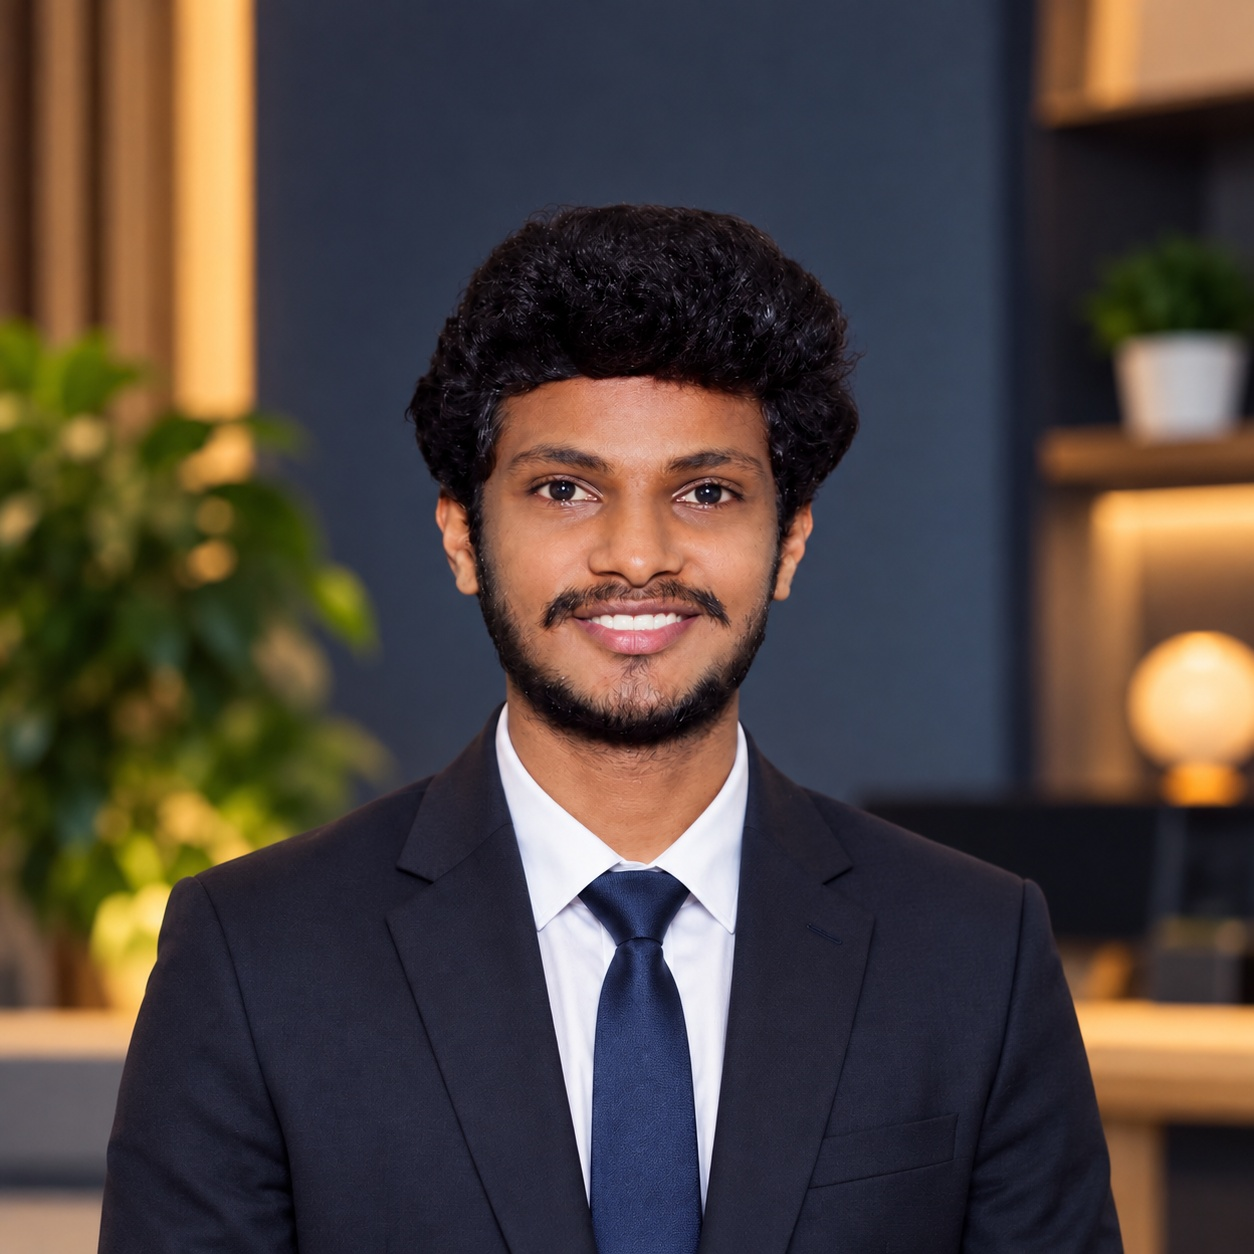
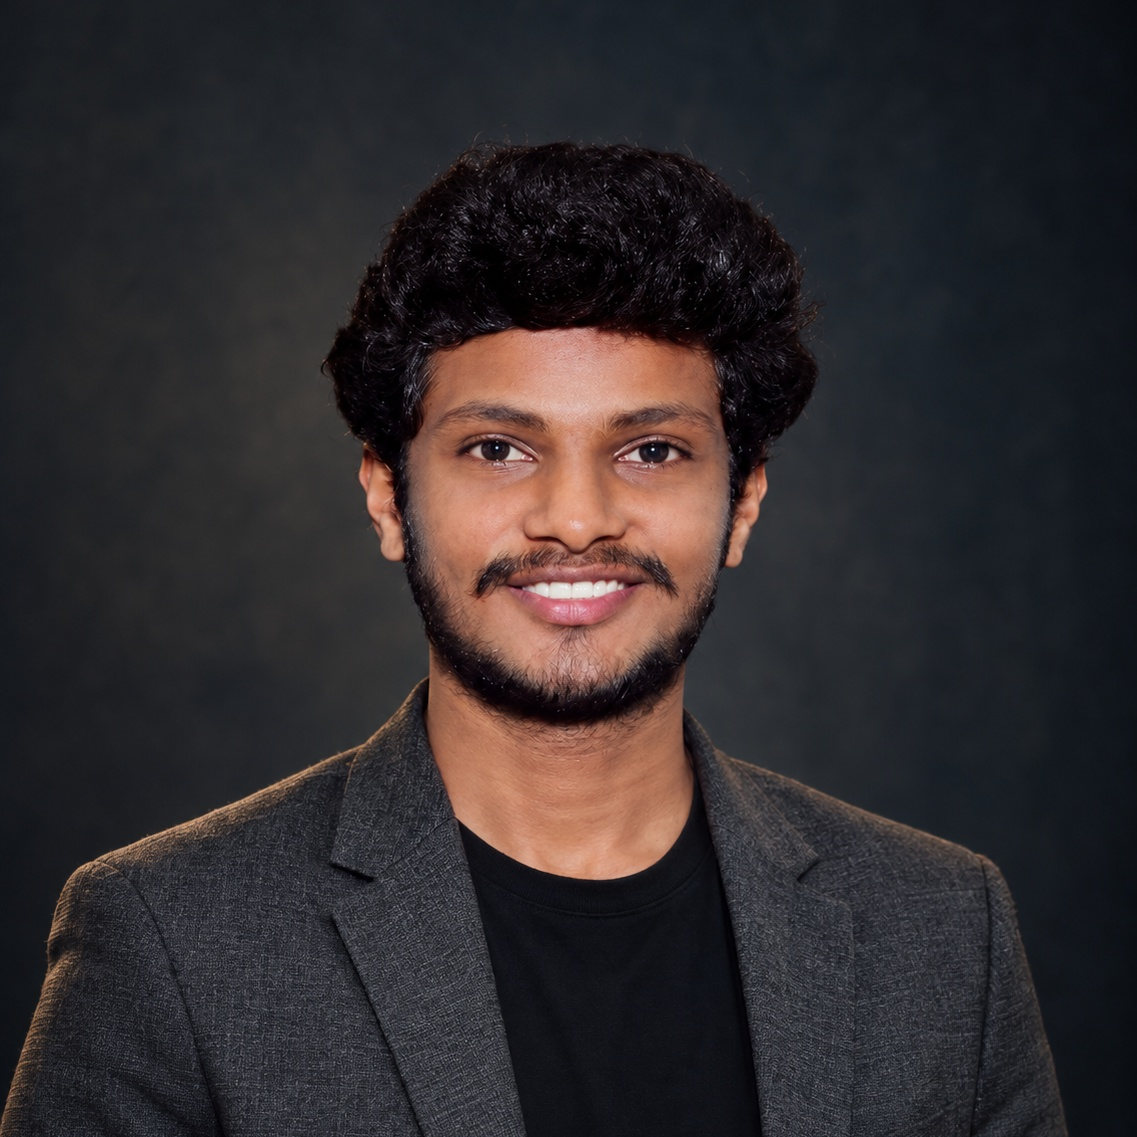
Update Dharaneeswar photo and adjust founder box width

diff --git a/frontend/src/pages/About.jsx b/frontend/src/pages/About.jsx
@@ -138,13 +138,13 @@ const About = () => {
           </div>
         </ScrollReveal>
 
-        <div className="max-w-5xl mx-auto grid grid-cols-1 md:grid-cols-3 gap-6 sm:gap-8 items-stretch">
+        <div className="max-w-[1055px] mx-auto grid grid-cols-1 md:grid-cols-3 gap-6 sm:gap-8 items-stretch">
           {founders.map((founder, idx) => {
             const founderImages = [founder1Img, founder2Img, founder3Img];
             const portrait = founderImages[idx];
             return (
               <ScrollReveal key={founder.id} delay={idx * 0.12} className="h-full">
-                <div className="charcoal-card rounded-2xl p-6 sm:p-7 flex flex-col items-center text-center justify-between h-full border-2 border-[#47484c]/70 hover:border-[#d4af37] shadow-[0_16px_36px_rgba(0,0,0,0.45)] hover:shadow-[0_20px_45px_rgba(212,175,55,0.18)] transition-all duration-300 group relative overflow-hidden">
+                <div className="charcoal-card rounded-2xl py-6 px-7 sm:px-8 flex flex-col items-center text-center justify-between h-full border-2 border-[#47484c]/70 hover:border-[#d4af37] shadow-[0_16px_36px_rgba(0,0,0,0.45)] hover:shadow-[0_20px_45px_rgba(212,175,55,0.18)] transition-all duration-300 group relative overflow-hidden">
                   {/* Subtle top card gold accent */}
                   <div className="absolute top-0 left-1/4 right-1/4 h-[2px] bg-gradient-to-r from-transparent via-[#d4af37]/50 to-transparent group-hover:via-[#d4af37] transition-all" />
 

diff --git a/frontend/src/pages/Home.jsx b/frontend/src/pages/Home.jsx
@@ -396,12 +396,12 @@ const FoundersSection = () => {
         </div>
       </ScrollReveal>
 
-      <div className="max-w-5xl mx-auto grid grid-cols-1 md:grid-cols-3 gap-6 sm:gap-8 items-stretch">
+      <div className="max-w-[1055px] mx-auto grid grid-cols-1 md:grid-cols-3 gap-6 sm:gap-8 items-stretch">
         {founders.map((founder, idx) => {
           const portrait = founderImages[idx];
           return (
             <ScrollReveal key={founder.id} delay={idx * 0.1} className="h-full">
-              <div className="charcoal-card rounded-2xl p-6 sm:p-7 flex flex-col items-center text-center justify-between h-full border-2 border-[#47484c]/70 hover:border-[#d4af37] shadow-[0_16px_36px_rgba(0,0,0,0.45)] hover:shadow-[0_20px_45px_rgba(212,175,55,0.18)] transition-all duration-300 group relative overflow-hidden">
+              <div className="charcoal-card rounded-2xl py-6 px-7 sm:px-8 flex flex-col items-center text-center justify-between h-full border-2 border-[#47484c]/70 hover:border-[#d4af37] shadow-[0_16px_36px_rgba(0,0,0,0.45)] hover:shadow-[0_20px_45px_rgba(212,175,55,0.18)] transition-all duration-300 group relative overflow-hidden">
                 {/* Subtle top gold accent line */}
                 <div className="absolute top-0 left-1/4 right-1/4 h-[2px] bg-gradient-to-r from-transparent via-[#d4af37]/50 to-transparent group-hover:via-[#d4af37] transition-all" />
 
